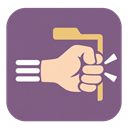
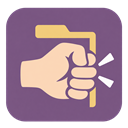
Preserve 2.0.1 diagnostic testing build outside public releases

diff --git a/isolation-background.js b/isolation-background.js
@@ -46,8 +46,13 @@
     const beforeURL = address(message?.beforeURL), senderURL = address(sender?.url);
     return beforeURL && senderURL ? senderURL === beforeURL : undefined;
   }
+  function activationReason(response) {
+    return ["activation-dispatched", "activation-threw", "already-activated"].includes(response?.reason)
+      ? response.reason : "activation-unconfirmed";
+  }
   function status(op, state, reason, copyKept = false) {
-    const summary = {state, reason, activated: op.mayActivated === true, copyKept: copyKept === true, updatedAt: now(), build: "2.0.0"};
+    const summary = {state, reason, activated: op.mayActivated === true, copyKept: copyKept === true, updatedAt: now(), build: "2.0.1"};
+    if (state === "activated" || state === "uncertain") summary.effectConfirmed = false;
     if (typeof op.senderAddressMatchesCurrent === "boolean") summary.senderAddressMatchesCurrent = op.senderAddressMatchesCurrent;
     try {
       const version = browser.runtime.getManifest?.().version;
@@ -162,16 +167,22 @@
         // response also claims that input prevented activation.
         if (response?.activated === true) {
           op.mayActivated = true;
-          await status(op, "activated", "pressed-in-copy", keep(op));
-          return {fallback: false, activated: true, reason: "pressed-in-copy"};
+          const reason = activationReason(response);
+          await status(op, reason === "activation-unconfirmed" ? "uncertain" : "activated", reason, keep(op));
+          return {fallback: false, activated: true, reason};
         }
         if (response?.userInteracted === true) {
           op.userTouched = true; stop(op, "copy-input");
           return await preFailure(op, "copy-input", true);
         }
-        const documentNonce = response?.documentNonce;
-        if (response?.ok === true && response.ready === true && typeof documentNonce === "string" && documentNonce.length > 0 && documentNonce.length <= 100) {
-          if (prepared === documentNonce && now() - preparedAt >= 250) {
+        const documentNonce = response?.documentNonce, preparationNonce = response?.preparationNonce;
+        if (response?.ok === true && response.ready === true &&
+            typeof documentNonce === "string" && documentNonce.length > 0 && documentNonce.length <= 100 &&
+            typeof preparationNonce === "string" && preparationNonce.length > 0 && preparationNonce.length <= 100) {
+          // Wait for the same document and actual matched control to settle.
+          // This gives delayed page initialization time; it cannot prove handlers are ready.
+          const stable = prepared?.documentNonce === documentNonce && prepared?.preparationNonce === preparationNonce;
+          if (stable && now() - preparedAt >= 1500) {
             if (!await sourceUnchanged(op)) return await preFailure(op, "source-changed");
             const currentCopy = await bounded(op, () => browser.tabs.get(op.workerId));
             if (!matchesSource(currentCopy, op.source) || op.userTouched) {
@@ -183,7 +194,7 @@
             let result;
             try {
               result = await bounded(op, () => browser.tabs.sendMessage(op.workerId, {type: "fnt-isolate-execute", nonce: op.nonce,
-                beforeURL: op.beforeURL, target: message.target, documentNonce}, {frameId: 0}));
+                beforeURL: op.beforeURL, target: message.target, documentNonce, preparationNonce}, {frameId: 0}));
             } catch {
               await status(op, "uncertain", "activation-response-unavailable", keep(op));
               return {fallback: false, activated: true, reason: "activation-response-unavailable"};
@@ -204,11 +215,11 @@
               op.mayActivated = false;
               return await preFailure(op, "copy-target-changed");
             }
-            const acknowledged = result?.activated === true;
-            await status(op, acknowledged ? "activated" : "uncertain", acknowledged ? "pressed-in-copy" : "activation-unconfirmed", keep(op));
-            return {fallback: false, activated: true, reason: acknowledged ? "pressed-in-copy" : "activation-unconfirmed"};
+            const reason = result?.activated === true ? activationReason(result) : "activation-unconfirmed";
+            await status(op, reason === "activation-unconfirmed" ? "uncertain" : "activated", reason, keep(op));
+            return {fallback: false, activated: true, reason};
           }
-          if (prepared !== documentNonce) { prepared = documentNonce; preparedAt = now(); }
+          if (!stable) { prepared = {documentNonce, preparationNonce}; preparedAt = now(); }
         } else { prepared = null; preparedAt = 0; }
         await delay(op, 250);
       }

diff --git a/changelog.html b/changelog.html
@@ -22,14 +22,15 @@ footer{color:var(--muted);font-size:14px;margin-top:26px}details summary{cursor:
 </head>
 <body>
 <main>
-<header><img src="icon@2x.png" alt="Force New Tab purple fist"><div><h1>Force New Tab</h1><p>2.0.0 candidate · automatic middle-click handling</p></div></header>
+<header><img src="icon@2x.png" alt="Force New Tab purple fist"><div><h1>Force New Tab</h1><p>2.0.1 · testing build with local diagnostics</p></div></header>
 <p><a href="https://github.com/Sergic25/ForceNewTab/issues/new/choose" target="_blank" rel="noopener noreferrer"><strong>Website not working? Report it on GitHub</strong></a> · <a href="https://github.com/Sergic25/ForceNewTab" target="_blank" rel="noopener noreferrer">Source and README</a></p>
 <aside class="notice" aria-labelledby="limits">
 <h2 id="limits">What to expect</h2>
 <p>Middle-click tries to open the destination in a background tab. The same rules apply across permitted websites. Purple fist means <strong>ON</strong>; grey means <strong>OFF</strong>. Click the toolbar icon to switch the entire addon on or off.</p>
 <p><strong>The original page cannot always be kept untouched.</strong> Some controls reveal their destination only after their code runs. That code can change the page or send a request before navigation is stopped. A copy can miss temporary panels or unsaved state; websites may also open extra popups or refuse simulated clicks. Firefox-protected pages remain unsupported.</p>
-<p><strong>Firefox 147 or newer is required.</strong> This is a development candidate for a final manual trial before Mozilla release submission. Automated checks simulate browser behavior; they do not guarantee every website works.</p>
+<p><strong>Firefox 147 or newer is required.</strong> This testing build keeps local diagnostic tools separate from the public release. Automated checks simulate browser behavior; they do not guarantee every website works.</p>
 </aside>
+<section><h2>2.0.1 — Copied-button readiness and centered artwork</h2><p>The copied page now keeps the same matched button ready for at least 1.5 seconds before one automatic press. If the page replaces that button while loading, the wait restarts. Direct links, images and card destinations retain their existing behavior.</p><p>The toolbar artwork is larger and centered, with the three trailing wrist lines removed. Purple ON and grey OFF states keep their existing meaning.</p><p>The status now says when a click was attempted, without claiming the website responded. The maintainer confirmed that the tested Canva Login control now opens its popup in the copied tab. This does not guarantee every Canva control. No website-specific rules or repeated clicks were added.</p></section>
 <section aria-labelledby="methods-title">
 <h2 id="methods-title">Automatic handling, one toolbar toggle</h2>
 <p>Direct links, clear card/title relationships and displayed images come first. If those do not reveal a destination, the addon checks for a clear address stored on the control's own app component. An unresolved eligible control can then use a background copy. These methods run automatically while the toolbar is ON; there are no separate testing switches, and old saved testing settings are ignored.</p>

diff --git a/isolation-content.js b/isolation-content.js
@@ -138,16 +138,20 @@
     if (workerInput) return Promise.resolve({ready: false, activated: false, userInteracted: true, reason: "copy-input"});
     if (!validRequest(message)) return Promise.resolve({ready: false, activated: false, reason: "invalid-or-disabled"});
     if (message.type === "fnt-isolate-prepare") {
-      if (document.readyState !== "complete") return Promise.resolve({ready: false, activated: false, reason: "document-loading"});
+      if (document.readyState !== "complete") { prepared = null; return Promise.resolve({ready: false, activated: false, reason: "document-loading"}); }
       const match = read(() => globalThis.FNTIsolationTarget.find(message.target, document));
       if (!match?.ok || !match.target) { prepared = null; return Promise.resolve({ready: false, activated: false, reason: "target-not-ready"}); }
       const fingerprint = read(() => JSON.stringify(message.target));
-      if (!fingerprint) return Promise.resolve({ready: false, activated: false, reason: "invalid-target"});
-      prepared = {nonce: message.nonce, target: match.target, fingerprint};
-      return Promise.resolve({ok: true, ready: true, activated: false, documentNonce});
+      if (!fingerprint) { prepared = null; return Promise.resolve({ready: false, activated: false, reason: "invalid-target"}); }
+      // A document can stay loaded while its framework replaces the button.
+      // Only the same concrete node and descriptor keep the readiness token.
+      if (!prepared || prepared.nonce !== message.nonce || prepared.target !== match.target || prepared.fingerprint !== fingerprint)
+        prepared = {nonce: message.nonce, target: match.target, fingerprint, preparationNonce: nonce()};
+      return Promise.resolve({ok: true, ready: true, activated: false, documentNonce, preparationNonce: prepared.preparationNonce});
     }
     const fingerprint = read(() => JSON.stringify(message.target));
     if (!prepared || prepared.nonce !== message.nonce || message.documentNonce !== documentNonce ||
+        message.preparationNonce !== prepared.preparationNonce ||
         prepared.fingerprint !== fingerprint || !sameTarget(prepared.target, message.target) || document.readyState !== "complete")
       return Promise.resolve({activated: false, reason: "prepared-target-changed"});
     if (used.size >= 16) return Promise.resolve({activated: false, reason: "document-activation-limit"});

diff --git a/report-ui.js b/report-ui.js
@@ -21,7 +21,7 @@
     const armed = current.fntRecordNextClick;
     output.value = report ? JSON.stringify(current.fntLastIsolationResult ? {...report, isolationResultScope: "last-copy-operation-across-tabs", isolationResult: current.fntLastIsolationResult} : report, null, 2) : "";
     if (isolationStatus) {
-      const labels = {rejected: "The copy request was rejected before preparation. The report includes the check.", declined: "Copy not started: this control could not be matched. The existing fallback may have been used.", preparing: "Loading a background copy…", activated: "The control was activated in the copy. Check the new tab.", uncertain: "The click was sent, but its reply was lost. Check the copied tab.", failed: "The copy could not be prepared; the existing fallback may have been used.", cancelled: "Copy preparation stopped."};
+      const labels = {rejected: "The copy request was rejected before preparation. The report includes the check.", declined: "Copy not started: this control could not be matched. The existing fallback may have been used.", preparing: "Loading a background copy…", activated: "A click was attempted in the copy. Check whether the expected page or popup appeared.", uncertain: "The copied click outcome is uncertain. Check the new tab before clicking again.", failed: "The copy could not be prepared; the existing fallback may have been used.", cancelled: "Copy preparation stopped."};
       isolationStatus.textContent = labels[current.fntLastIsolationResult?.state] || "Background copies are used automatically for unresolved controls while the toolbar is ON.";
     }
     record.disabled = clear.disabled = busy;

diff --git a/diagnostic-background.js b/diagnostic-background.js
@@ -89,7 +89,7 @@
     if (!live(recording) || recording.token !== message.recordingToken) return {saved: false};
     const report = {...message.report, frameId: sender.frameId};
     const summary = report.outcome?.version === 1 ? content(report.outcome.content, true) : null;
-    if (summary) report.outcome = {version: 1, content: summary, background: {correlationOnly: true, observerBuild: "2.0.0", events: [], counts: {}, limited: false}};
+    if (summary) report.outcome = {version: 1, content: summary, background: {correlationOnly: true, observerBuild: "2.0.1", events: [], counts: {}, limited: false}};
     else if (report.outcome) delete report.outcome;
     if (JSON.stringify(report).length > 22000) return {saved: false};
     await browser.storage.local.set({[KEY]: null, [REPORT]: report});

diff --git a/diagnostics.js b/diagnostics.js
@@ -67,7 +67,7 @@
     }
     const report = {
       schemaVersion: 1,
-      diagnosticVersion: "2.0.0",
+      diagnosticVersion: "2.0.1",
       extensionVersion: read(() => {
         const version = browser.runtime.getManifest?.().version;
         return typeof version === "string" && /^[0-9A-Za-z._-]{1,32}$/.test(version) ? version : null;

diff --git a/TEST-RESULTS.md b/TEST-RESULTS.md
@@ -1,19 +1,23 @@
-# Force New Tab 2.0.0 — verification status
+# Force New Tab 2.0.1 — diagnostic testing branch
 
-Verified on October 28, 2026. App-data and background-copy methods run automatically under the existing toolbar ON/OFF control. Stored legacy feature flags are ignored. The final Firefox trial and Mozilla release checks are still pending.
+Verified on October 28, 2026. All20 packaged suites pass using node tests/run.cjs. These simulate DOM/browser APIs; no native Firefox integration claim is made.
 
-## Current result
+## Changes from the2.0.0 GitHub candidate
 
-**All 20 packaged suites pass** using node tests/run.cjs. These are simulated DOM/browser tests, not native Firefox integration tests, and do not establish universal compatibility.
+The copied worker now issues a preparation token for the actual matched button and descriptor. Replacing the button, changing the descriptor/request, losing the match or returning to a loading document invalidates that token. The background requires the same document and preparation token for at least1500ms before sending one execute message with both tokens. The existing15second deadline stays fixed even when a page repeatedly replaces the control. Direct link/card/image/app-data resolution is unchanged.
 
-The two remaining flow suites expected old optional switches to disable automatic methods. Their fixtures now distinguish fresh settings from saved legacy false values. Both must behave automatically. The existing compatibility cases remain, with added checks for toolbar OFF, OFF then ON during a pending copy, direct destinations taking priority, and rejecting stale fallback or repeat activation.
+Activation reasons now distinguish a dispatched click, a thrown invocation and a previously consumed operation. Saved activated/uncertain summaries explicitly set effectConfirmed:false. The Preferences label says a click was attempted and directs the user to check the actual result. No second click or source-page replay is authorized after possible copied activation.
 
-Passing coverage includes 42 app-data checks, 91 app-data compatibility/integration checks, 56 copy-content checks, 83 copy-background checks, 52 copy integration checks, 42 combined gesture checks, 35 shadow-tree flow checks, 57 diagnostic checks, 29 outcome-background checks and 18 report-UI checks. Counts overlap and must not be added into an end-to-end total. All remaining core/resolver/component/locator/migration suites pass; the legacy suite reproduces four known faults in the original source.
+The requested artwork revision removes the three trailing wrist lines and centers/enlarges the remaining fist, tab and white impact marks. Separate purple ON/grey OFF assets retain their existing filenames and size mappings. All26 packaged icon files match the independently exported dimensions and SHA256 records in the companion force-new-tab-icons-no-lines pack. Icon fingerprint expectations were deliberately updated; historical navigation fingerprints remain.
 
-The final test correction changes tests and documentation only. The original core, resolver, component-link, discovery, toolbar background and target-matching modules remain byte-identical to the verified 4.2.6 icon candidate. The feature-gating modules and reporting UI were intentionally changed for automatic handling. There are no new permissions, website-specific rules or changes to the approved icon files.
+## Coverage
 
-A definitive toolbar-settings read failure declines copying and permits bounded source discovery only after fresh source validation. Pending reads, known toolbar OFF, changed context and uncertain/complete copied activation do not gain that fallback.
+61 worker-content checks include stable/replaced/loading targets, incorrect/missing preparation tokens and stale-token cancellation.91 background checks include the1.5second settling interval, token changes, a delayed mock handler, malformed replies, the fixed15second deadline, distinct activation errors and no repeat activation. Existing35 open-shadow-flow,42 gesture-flow,52 integration, direct-opening and global-toolbar checks pass. Counts overlap and are not an end-to-end total.
 
-The icons retain their verified dimensions/hashes and toolbar-state checks. No live Firefox verification was performed for this automatic-handling candidate. The maintainer's final normal-browser trial, signed installation and upgrade checks, and Mozilla validation remain release work. The test package is unsigned.
+The original content.js,resolver.js,component-link.js,app-data.js,discovery.js,background.js and isolation-target.js remain byte-identical to the2.0.0 GitHub candidate. Permissions and license are unchanged. The trial adds no website-specific runtime rules.
 
-Earlier verification records are preserved in docs/history/TEST-RESULTS.md and describe earlier builds.
+## Canva evidence and remaining verification
+
+The user reported that middle-clicking Login at Canva templates opens a plain copy. Left-clicking Login inside that copy opens an in-page popup. The2.0.0 report records an attempted copied activation but does not prove its visible effect. A normal keyboard login activation also opened the dialog container in a separate public inspection. None of this establishes whether early initialization or synthetic-input behavior caused the Firefox failure.
+
+The maintainer subsequently confirmed that Canva Login works with the current correction. This is feedback for the tested control, not independent automated Firefox evidence or a claim that every Canva control works. Keep Canva, the previously working Bluesky login/signup and Questrade control, and direct destinations in future regression checks. Allow up to15seconds without clicking or typing in the copy. Signed installation/upgrade checks, Mozilla validation and the final browser trial remain pending. This diagnostic build is preserved on GitHub's testing branch, outside normal Releases. It has not been submitted to Mozilla.

diff --git a/README.md b/README.md
@@ -1,8 +1,18 @@
-# Force New Tab
+# Force New Tab — testing version
 
-**2.0.0 development candidate.** All 20 packaged automated suites pass; the final Firefox trial is still pending. This is not yet the stable Mozilla release. For the existing public release, use [Firefox Add-ons](https://addons.mozilla.org/en-US/firefox/addon/force-new-tab/).
+This branch keeps the **2.0.1 diagnostic build** for investigating website problems. It is separate from the public extension and is not published as a normal GitHub Release. For everyday use, see the [public version](https://github.com/Sergic25/ForceNewTab) and its installation instructions.
 
-**[Report a problem or suggest an improvement on GitHub](https://github.com/Sergic25/ForceNewTab/issues/new/choose).** Describe the exact control you middle-clicked and what happened in both tabs.
+The testing build includes **Record next middle-click** in the extension's Preferences. Recording is manual and local. It does not change the navigation methods. The current copied-button correction was confirmed by the maintainer to work for Canva's Login button; that report is about the tested control, not every Canva page.
+
+## Load the testing version
+
+1. Download this branch from GitHub using **Code → Download ZIP**, then extract it.
+2. Open Firefox 147 or newer and go to **about:debugging → This Firefox → Load Temporary Add-on**.
+3. Select this folder's **manifest.json**, then reload the website you want to test. Temporary loading ends when Firefox restarts.
+4. Open the addon's Preferences, choose **Record next middle-click**, then middle-click the affected control. Wait about 15 seconds and return to Preferences to inspect the report.
+5. Review it before sharing on [GitHub Issues](https://github.com/Sergic25/ForceNewTab/issues/new/choose). Website address paths can reveal private content or account details even though query strings and typed form values are excluded. Nothing is uploaded automatically.
+
+This build uses the same extension ID as the public version. Use a separate Firefox test profile if you want to keep the two installations separate. The purple/grey toolbar toggle remains the only switch for navigation behavior.
 
 ## How it works
 
@@ -15,17 +25,17 @@ Force New Tab tries to open middle-click destinations in background tabs using t
 
 These methods run **automatically while the toolbar is ON**. There are no separate feature switches; settings left by older test builds do not disable them. Click the fist to toggle everything: **purple = ON**, **grey = OFF**. The toolbar state is saved.
 
-## Try this preview
+## Testing behavior
 
 Requires **Firefox 147 or newer**.
 
-1. Download and extract this branch's source, or clone the repository.
+1. Download and extract the **testing** branch, or clone that branch.
 2. Open **about:debugging** → **This Firefox** → **Load Temporary Add-on**, then select **manifest.json** in the extension folder.
 3. Reload the test page and keep the toolbar purple.
 
 Temporary installation ends when Firefox restarts. No Mozilla-signed package of this preview has been produced.
 
-Use ordinary middle-click; Shift is unnecessary. Direct destinations should open promptly. A background copy can take **up to 15 seconds**. Switching tabs or viewing the copy is fine. Clicking or typing inside it stops automatic replay. Input on the original page, navigation, closing a tab or disabling the addon can also cancel preparation.
+Use ordinary middle-click; Shift is unnecessary. Direct destinations should open promptly. A background copy can take **up to 15 seconds**. It now waits at least 1.5 seconds with the same matched button before attempting one click; a replaced button restarts that wait. This gives the copied page more time to initialize but cannot prove its button is ready. Switching tabs or viewing the copy is fine. Clicking or typing inside it stops automatic replay. Input on the original page, navigation, closing a tab or disabling the addon can also cancel preparation.
 
 ## Limits and privacy
 

diff --git a/TESTING-WEBSITES.md b/TESTING-WEBSITES.md
@@ -6,6 +6,7 @@ Keep the toolbar **ON (purple)**. Address inspection and background copies run a
 
 | Website | Try separately |
 | --- | --- |
+| [Canva](https://www.canva.com/templates/) | Login: one middle-click should open a copied page with its login popup. The maintainer confirmed this control works in 2.0.1; retest it when changing copy behavior. |
 | [Bluesky](https://bsky.app/) | Post, image, comment, and signed-out login/signup buttons |
 | [Spotify](https://open.spotify.com/) | Album artwork, title, artist, login, and signup |
 | [X](https://x.com/) | Posts, comments, images, and a story in Today's News when available |
